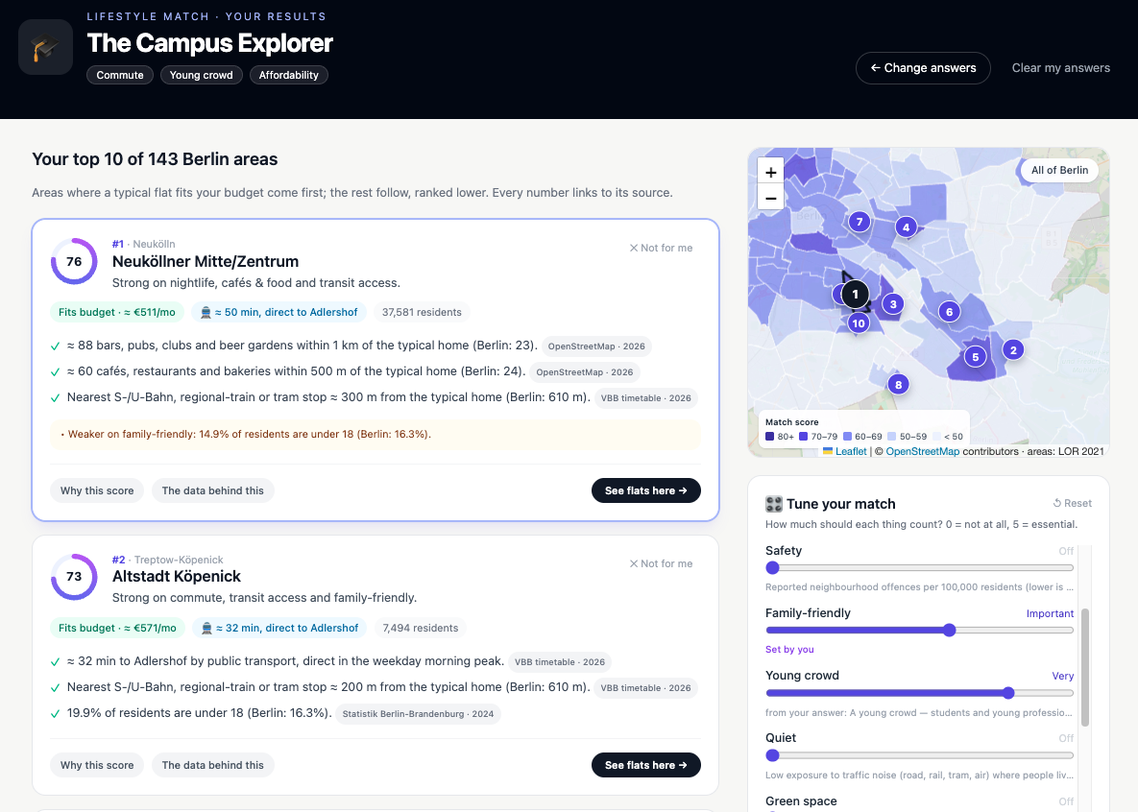
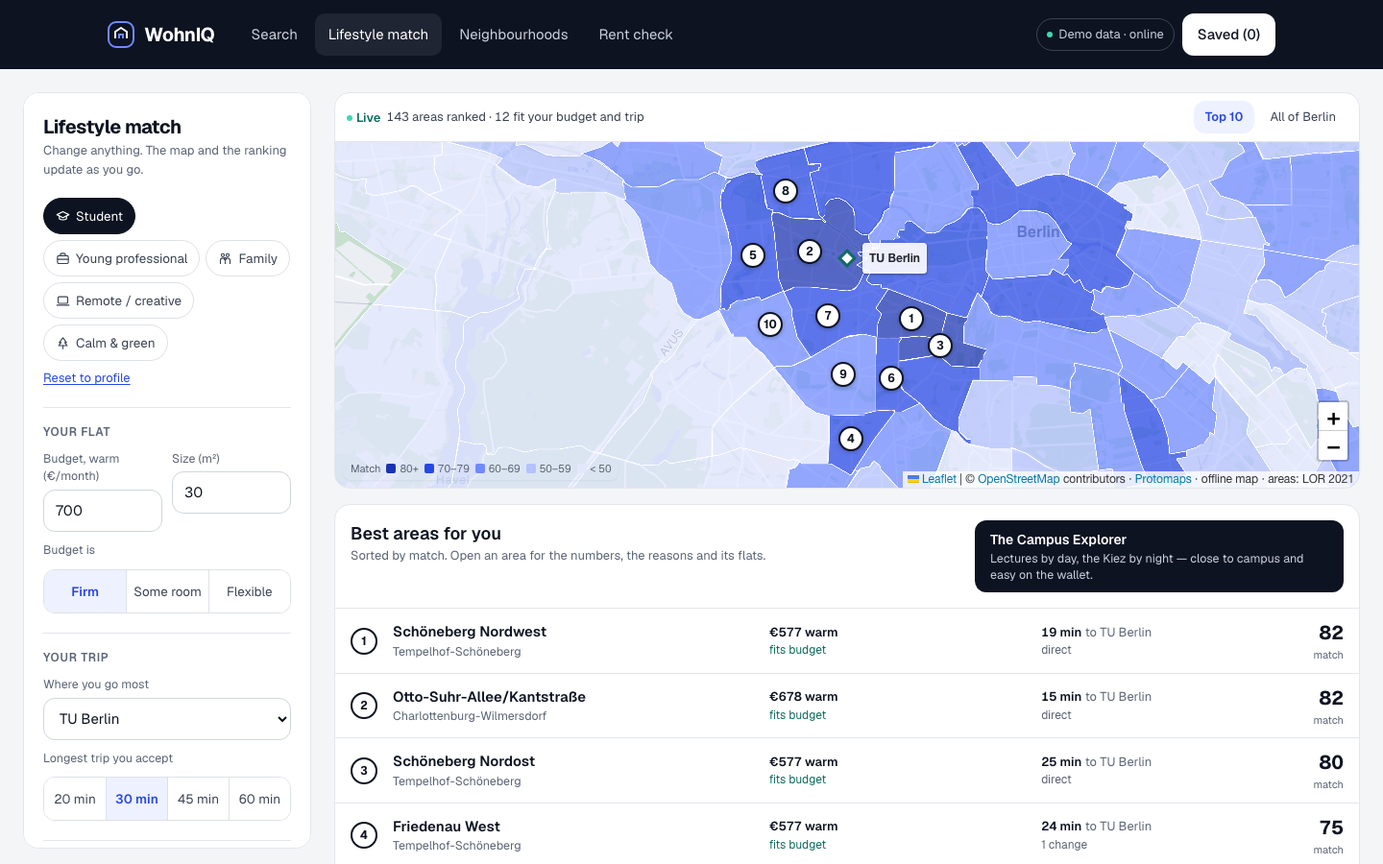
Check offline and accessibility, configure ESLint, update docs (T9.8)
- e2e/offline.spec.ts blocks every outside request and visits every page:
  all work, maps draw the local PMTiles, nothing tries to leave.
- e2e/a11y.spec.ts runs axe (WCAG 2.1 A/AA) on nine pages at desktop and
  phone size. Fixed: hero text contrast on /lifestyle/questions, photo
  counter contrast, Neighbourhoods row labels that hid their visible text
  (tests now read data-label), links in text without underline, small
  Remove targets on /compare.
- New dev dependency @axe-core/playwright 4.14.0 (pinned): automated
  accessibility checks in the existing Playwright suite; dev only, free.
- ESLint was installed but never configured (npm run lint only opened a
  setup prompt): added .eslintrc.json (next/core-web-vitals), fixed the
  two findings.
- README: Berlin Ink and the open data, ADR-0016 to 0020, stack, repo
  map, quickstart, offline and Docker notes, attribution, current scam
  eval and new screenshots. LIFESTYLE_MATCH.md describes the explorer.

diff --git a/frontend/e2e/offline.spec.ts b/frontend/e2e/offline.spec.ts
@@ -1,0 +1,66 @@
+// Offline check (T9.8, design rule "offline first"): every request leaving this machine is
+// blocked. Each page must still work, with the local base map, and say so where live data
+// (departures) is missing.
+
+import { expect, test, type Page } from "@playwright/test";
+
+const LOCAL = /^(https?:\/\/(localhost|127\.0\.0\.1)(:\d+)?\/|data:|blob:)/;
+
+async function goOffline(page: Page) {
+  const blocked: string[] = [];
+  const errors: string[] = [];
+  await page.context().route("**/*", (route) => {
+    const url = route.request().url();
+    if (LOCAL.test(url)) return route.continue();
+    blocked.push(new URL(url).host);
+    return route.abort("internetdisconnected");
+  });
+  page.on("pageerror", (e) => errors.push(e.message));
+  return { blocked, errors };
+}
+
+async function mapTilesDrawn(page: Page) {
+  // protomaps-leaflet draws the local PMTiles into canvases; no tile images from the web.
+  await expect(page.locator(".leaflet-tile-pane canvas").first()).toBeVisible({ timeout: 20_000 });
+}
+
+test("every page works with no internet, and nothing tries to leave this machine", async ({ page }) => {
+  const { blocked, errors } = await goOffline(page);
+  const map = await (await page.request.get("http://localhost:8000/api/v1/listings/map")).json();
+  const id = map[0].id;
+
+  await page.goto("/");
+  await expect(page.getByRole("heading", { level: 1 })).toBeVisible();
+  await mapTilesDrawn(page);
+
+  await page.goto("/?q=Quiet+2+rooms+in+Mitte+near+a+park");
+  await expect(page.getByTestId("results-heading")).toHaveText(/^\d+ flats? /);
+  await mapTilesDrawn(page);
+
+  await page.goto(`/listings/${id}`);
+  await expect(page.getByTestId("rent-panel")).toBeVisible();
+  await expect(page.getByTestId("similar-card").first()).toBeVisible();
+  await mapTilesDrawn(page);
+
+  await page.goto("/rent-check");
+  await expect(page.getByRole("heading", { level: 1 })).toBeVisible();
+
+  await page.goto("/lifestyle");
+  await page.getByTestId("profile-cards").getByRole("button", { name: /Student/ }).click();
+  await expect(page.getByTestId("area-row").first()).toBeVisible();
+  await mapTilesDrawn(page);
+
+  await page.goto("/neighborhoods");
+  await expect(page.locator(".leaflet-overlay-pane path").first()).toBeAttached();
+  await mapTilesDrawn(page);
+
+  await page.goto(`/compare?ids=${id},${map[1].id}`);
+  await expect(page.getByTestId("compare-column")).toHaveCount(2);
+
+  await page.goto("/saved");
+  await expect(page.getByRole("heading", { name: "Saved" })).toBeVisible();
+
+  expect(errors).toEqual([]);
+  // Nothing tried to leave this machine (photos come from local copies in demo mode).
+  expect([...new Set(blocked)]).toEqual([]);
+});

diff --git a/frontend/e2e/a11y.spec.ts b/frontend/e2e/a11y.spec.ts
@@ -1,0 +1,35 @@
+// Accessibility pass (T9.8): automated WCAG 2.1 A/AA checks with axe on every page, at
+// desktop and phone size. Manual checks (keyboard, landmarks, 44 px targets) are in the
+// Stop 8 checklist. Map tiles are canvas images and are excluded (they carry no text).
+
+import AxeBuilder from "@axe-core/playwright";
+import { expect, test, type Page } from "@playwright/test";
+
+async function scan(page: Page) {
+  const r = await new AxeBuilder({ page })
+    .withTags(["wcag2a", "wcag2aa", "wcag21a", "wcag21aa"])
+    .exclude(".leaflet-tile-pane")
+    .analyze();
+  return r.violations.map((v) => `${v.id} (${v.impact}): ${v.nodes.length}× ${v.nodes.slice(0, 3).map((n) => n.target.join(" ")).join(" | ")}`);
+}
+
+const PAGES: { name: string; open: (page: Page, id: string, id2: string) => Promise<void> }[] = [
+  { name: "home", open: async (p) => { await p.goto("/"); await p.locator(".leaflet-container").first().waitFor(); } },
+  { name: "results", open: async (p) => { await p.goto("/?q=Quiet+2+rooms+in+Mitte+near+a+park"); await expect(p.getByTestId("results-heading")).toHaveText(/^\d+ flats? /); } },
+  { name: "listing", open: async (p, id) => { await p.goto(`/listings/${id}`); await p.getByTestId("similar-card").first().waitFor(); } },
+  { name: "rent check", open: async (p) => { await p.goto("/rent-check"); await p.getByRole("heading", { level: 1 }).waitFor(); } },
+  { name: "lifestyle", open: async (p) => { await p.goto("/lifestyle"); await p.getByTestId("profile-cards").getByRole("button", { name: /Student/ }).click(); await p.getByTestId("area-row").first().waitFor(); } },
+  { name: "lifestyle questions", open: async (p) => { await p.goto("/lifestyle/questions"); await p.getByRole("button", { name: /Student/ }).waitFor(); } },
+  { name: "neighbourhoods", open: async (p) => { await p.goto("/neighborhoods"); await p.locator(".leaflet-overlay-pane path").first().waitFor(); } },
+  { name: "compare", open: async (p, id, id2) => { await p.goto(`/compare?ids=${id},${id2}`); await expect(p.getByTestId("compare-column")).toHaveCount(2); } },
+  { name: "saved", open: async (p) => { await p.goto("/saved?tab=searches"); await p.getByRole("heading", { name: "Saved" }).waitFor(); } },
+];
+
+for (const pg of PAGES) {
+  test(`no WCAG A/AA violations: ${pg.name}`, async ({ page }) => {
+    const map = await (await page.request.get("http://localhost:8000/api/v1/listings/map")).json();
+    await pg.open(page, map[0].id, map[1].id);
+    await page.waitForTimeout(500);
+    expect(await scan(page)).toEqual([]);
+  });
+}

diff --git a/frontend/e2e/neighborhoods.spec.ts b/frontend/e2e/neighborhoods.spec.ts
@@ -12,7 +12,7 @@ const MUGGELHEIM = "094016";
 const rows = (page: Page) => page.locator("li[data-key]");
 const row = (page: Page, key: string) => page.locator(`li[data-key="${key}"]`);
 const firstRowName = async (page: Page) =>
-  (await rows(page).first().locator("button").first().getAttribute("aria-label")) ?? "";
+  (await rows(page).first().getAttribute("data-label")) ?? "";
 
 async function clickArea(page: Page, key: string) {
   // Leaflet draws each area as an SVG path tagged with its key (NeighborhoodsMap). Click
@@ -109,11 +109,11 @@ test("list → map: selecting a row outlines the area on the map", async ({ page
 test("search and district filter keep Berlin-wide ranks", async ({ page }) => {
   await page.goto("/neighborhoods?category=safety");
   await expect(rows(page)).toHaveCount(143);
-  const rankBefore = await row(page, MUGGELHEIM).locator("button").first().getAttribute("aria-label");
+  const rankBefore = await row(page, MUGGELHEIM).getAttribute("data-label");
 
   await page.getByPlaceholder("Find an area…").fill("muggel");
   await expect(rows(page)).toHaveCount(1);
-  await expect(row(page, MUGGELHEIM).locator("button").first()).toHaveAttribute("aria-label", rankBefore!);
+  await expect(row(page, MUGGELHEIM)).toHaveAttribute("data-label", rankBefore!);
 
   await page.getByPlaceholder("Find an area…").fill("");
   await page.getByLabel("District").selectOption("Mitte");

diff --git a/frontend/app/neighborhoods/page.tsx b/frontend/app/neighborhoods/page.tsx
@@ -439,11 +439,11 @@ function NeighborhoodsPage() {
             <p className="mt-6 text-xs leading-relaxed text-text-muted">
               Areas are Berlin&apos;s 143 official LOR <em>Bezirksregionen</em>. Scores are percentiles against all of
               Berlin (100 = best); the badges mark the top and bottom 20%. Looking for a flat?{" "}
-              <Link href="/lifestyle" className="text-accent hover:underline">
+              <Link href="/lifestyle" className="text-accent underline underline-offset-2">
                 Try Lifestyle Match
               </Link>{" "}
               or{" "}
-              <Link href="/" className="text-accent hover:underline">
+              <Link href="/" className="text-accent underline underline-offset-2">
                 search listings
               </Link>
               .

diff --git a/frontend/components/neighborhoods/AreaRow.tsx b/frontend/components/neighborhoods/AreaRow.tsx
@@ -22,6 +22,7 @@ export function AreaRow({ area: a, total, bestLabel, worstLabel, selected, onSel
     <li
       id={`area-${a.key}`}
       data-key={a.key}
+      data-label={`#${a.rank} ${a.name}, ${a.district}`}
       onMouseEnter={() => onHover(a.key)}
       onMouseLeave={() => onHover(null)}
       className={`scroll-mt-40 rounded-2xl border bg-white transition-shadow ${
@@ -34,7 +35,6 @@ export function AreaRow({ area: a, total, bestLabel, worstLabel, selected, onSel
         type="button"
         onClick={() => onSelect(a.key)}
         aria-expanded={selected}
-        aria-label={`#${a.rank} ${a.name}, ${a.district}`}
         className="flex w-full items-start gap-3 rounded-2xl p-3.5 text-left focus:outline-none focus-visible:ring-2 focus-visible:ring-accent"
       >
         <span

diff --git a/frontend/app/compare/page.tsx b/frontend/app/compare/page.tsx
@@ -144,7 +144,7 @@ function CompareInner() {
                       <RentChip rent={d.rent} short />
                       <RiskChip risk={d.risk} short />
                     </div>
-                    <button type="button" onClick={() => go(ids.filter((x) => x !== id))} className="mt-2 text-[13px] text-accent underline" aria-label={`Remove ${l.title}`}>
+                    <button type="button" onClick={() => go(ids.filter((x) => x !== id))} className="mt-1 inline-flex min-h-tap items-center text-[13px] text-accent underline" aria-label={`Remove ${l.title}`}>
                       Remove
                     </button>
                   </th>

diff --git a/frontend/components/listing/PhotoGallery.tsx b/frontend/components/listing/PhotoGallery.tsx
@@ -124,7 +124,7 @@ export function PhotoGallery({
           <svg width="20" height="20" viewBox="0 0 24 24" fill="none" stroke="currentColor" strokeWidth="2" aria-hidden="true"><path d="M12 3v12M7 8l5-5 5 5M5 14v5a2 2 0 0 0 2 2h10a2 2 0 0 0 2-2v-5" /></svg>
         </button>
         {photos.length > 1 && (
-          <span className="absolute bottom-3 right-4 rounded-full bg-ink/80 px-2.5 py-0.5 text-[13px] text-white">
+          <span className="absolute bottom-3 right-4 rounded-full bg-ink px-2.5 py-0.5 text-[13px] text-white">
             {slide + 1} / {photos.length}
           </span>
         )}

diff --git a/frontend/components/lifestyle/DestinationPicker.tsx b/frontend/components/lifestyle/DestinationPicker.tsx
@@ -71,7 +71,7 @@ export function DestinationPicker({ answers, destinations, frequency, labels, on
           <div>
             <div className="flex items-end justify-between">
               <label htmlFor="commute" className="text-base font-semibold text-text">
-                Longest commute you'd accept
+                Longest commute you&apos;d accept
               </label>
               <span className="text-2xl font-bold tabular-nums text-text">
                 {answers.max_commute_min}

diff --git a/frontend/app/lifestyle/questions/page.tsx b/frontend/app/lifestyle/questions/page.tsx
@@ -162,7 +162,7 @@ export default function LifestylePage() {
               fits your life.
             </span>
           </h1>
-          <p className="mx-auto mt-4 max-w-xl text-base text-text-muted sm:text-lg">
+          <p className="mx-auto mt-4 max-w-xl text-base text-text-on-ink-muted sm:text-lg">
             Tell us how you live. We match you to {catalog?.region_count ?? 143} Berlin areas using official
             data — and show you exactly why.
           </p>

diff --git a/frontend/components/map/ListingsMap.tsx b/frontend/components/map/ListingsMap.tsx
@@ -362,7 +362,7 @@ export function ListingsMap({ listings, onUserViewChange }: Props) {
       </div>
       {offline && (
         <p className="mt-1.5 text-xs text-gray-500">
-          The offline map file isn't available on this server. Outlines show Berlin&apos;s areas.
+          The offline map file isn&apos;t available on this server. Outlines show Berlin&apos;s areas.
         </p>
       )}
     </div>

diff --git a/README.md b/README.md
@@ -20,15 +20,29 @@ Berlin's rental market is scarce, fast-moving, and scam-prone. Traditional porta
 5. Real-time enrichment fetches public-transport commute times (BVG/VBB API) and POI counts (OSM Overpass).
 6. A hybrid scam engine runs on every listing: price z-score, pHash duplicate detection, and an LLM text pass produce a fused 0–100 risk score with evidence.
 7. Results render as cards with a natural-language explanation grounded in the score breakdown, a risk badge, and a neighborhood map.
-8. Users can select 2–4 listings for a side-by-side comparison.
+8. Every listing is checked against the official **Berliner Mietspiegel 2026** (index range, rent-brake limit, verdict) and gets an **Around this flat** profile and **Right now** departures from Berlin's open data.
+9. Users can save searches, see similar flats and compare up to four flats side by side on a shareable `/compare` page.
+
+### Berlin Ink: the redesign with Berlin's open data
+
+The current look ("Berlin Ink", [`docs/design/berlin-ink/`](docs/design/berlin-ink/)) adds Berlin's official open data to every screen. The data is built once from checksummed source files into Supabase/PostGIS, and into local build files for offline use ([ADR-0016](docs/adr/0016-berlin-open-data-in-supabase.md)):
+
+- **Rent check** (`/rent-check` and on every listing): any of Berlin's 400,505 residential addresses against the Mietspiegel 2026 and the rent brake, following the brochure's method (its worked example is a test). The flat's rent is computed in the browser and never sent anywhere ([ADR-0017](docs/adr/0017-rent-check-and-scam-price-signal.md)).
+- **Around this flat**: nearest S/U-Bahn, schools, Kitas, parks and playgrounds, air quality, road accidents, recorded crime for the district region and the location class, each with its source and its position among Berlin's 542 planning areas. Wording describes, never judges.
+- **Right now**: the six nearest stops with BVG-style transport icons, offline; live departures when online.
+- **Scam checks** now compare rents with the rent index and read the landlord's wording offline in English and German ([ADR-0018](docs/adr/0018-offline-scam-wording-check.md)).
+- **Similar apartments** on every listing (ranked by code on named factors, each card saying why), a **compare list** of up to four flats with a `/compare?ids=…` page, and **saved searches** with "new since last time" and download/import, all without an account ([ADR-0020](docs/adr/0020-saved-searches-in-the-browser.md)).
+- **Offline first**: one local vector map of Berlin (PMTiles) draws every map without a tile server ([ADR-0019](docs/adr/0019-offline-basemap-and-berlin-ink-foundations.md)); in demo mode nothing leaves the machine (an end-to-end test blocks all outside requests).
+
+![Rent check](./assets/rent-check.png)
 
 ### See on the map — every listing, and what an area costs
 
-Under "Explore Berlin" on the homepage, every listing sits on the OpenStreetMap map as a purple price pill (warm rent). Click one for a card with photo, rent, location, rooms and size; the pill stays marked. Zoom out and listings cluster into the **median rent of each neighbourhood** (z12), then **each district** (z11), and once other cities are on screen (z ≤ 10) into a single **Berlin median**. A switcher jumps straight to any level. Tiers, thresholds and why: [ADR-0015](docs/adr/0015-homepage-listings-map.md).
+Under "Explore Berlin" on the homepage, every listing sits on the offline Berlin map as a blue price pill (warm rent). Click one for a card with photo, rent, location, rooms and size; the pill stays marked. Zoom out and listings cluster into the **median rent of each neighbourhood** (z12), then **each district** (z11), and once other cities are on screen (z ≤ 10) into a single **Berlin median**. A switcher jumps straight to any level. Tiers, thresholds and why: [ADR-0015](docs/adr/0015-homepage-listings-map.md).
 
 ### Lifestyle Match — find your Kiez, not just a flat
 
-Not everyone knows which neighbourhood to search in. **Lifestyle Match** (`/lifestyle`) asks a few playful questions (or starts from a preset like 🎓 Student or 🌳 Calm & green). It predicts your lifestyle persona, lets you confirm it, and ranks **all 143 Berlin areas** with a transparent, deterministic score built from official and open data: police crime statistics, the population register, the environmental atlas, IBB rents, the VBB timetable and OpenStreetMap. Every suggestion explains *why*, with the source of each number. You can re-weight factors, remove areas, update the ranking and open WohnIQ listings located in an area. **Your answers are never stored or logged.**
+Not everyone knows which neighbourhood to search in. **Lifestyle Match** (`/lifestyle`) is an explorer in two columns: your settings on the left (a profile such as Student or Calm & green, budget, where you go most, what matters from 0 to 5), and on the right a map of **all 143 Berlin areas** above "Best areas for you". Every change re-ranks live; you can open an area, compare up to three side by side, or remove it. Prefer questions? `/lifestyle/questions` asks them and predicts a persona. The ranking is a transparent, deterministic score built from official and open data: police crime statistics, the population register, the environmental atlas, IBB rents, the VBB timetable and OpenStreetMap. Every suggestion explains *why*, with the source of each number. You can open WohnIQ listings located in any area. **Your answers are never stored or logged.**
 
 ![Lifestyle Match results](./assets/lifestyle-results.png)
 
@@ -36,7 +50,7 @@ Not everyone knows which neighbourhood to search in. **Lifestyle Match** (`/life
 
 ### Berlin Neighborhoods — every area, ranked your way
 
-**Berlin Neighborhoods** (`/neighborhoods`, in the header menu) shows **all 143 Berlin areas** as a ranked list next to an OpenStreetMap map. Switch the category and both re-rank and recolour: crime, road safety, affluence, education, healthcare, amenities, parks & nature, public transport, quiet & clean air, parking, affordability, or a weighted overall score you can tune. Click an area on the map and the sidebar jumps to it with every figure, its Berlin comparison and its source.
+**Berlin Neighborhoods** (`/neighborhoods`, in the header menu) shows **all 143 Berlin areas** as a ranked list next to the map, on one calm blue scale. Switch the category and both re-rank and recolour: crime, road safety, affluence, education, healthcare, amenities, parks & nature, public transport, quiet & clean air, parking, affordability, or a weighted overall score you can tune. Click an area on the map and the sidebar jumps to it with every figure, its Berlin comparison and its source.
 
 The data comes from the police crime atlas, the Unfallatlas, the Senate's social-monitoring index, official land values (Bodenrichtwerte 2026), the schools report and OpenStreetMap. Scores are percentiles against a fixed Berlin-wide distribution, with no LLM involved. Labels describe the measure, never the residents.
 
@@ -108,19 +122,23 @@ Lifestyle answers are bounded choices (no free text, no addresses). The matching
 ### ADR-0013 — Berlin Neighborhoods: ranked area profiles from official data
 
 Same 143 areas and outlines as Lifestyle Match, with a separate, reproducible bundle: 40 metrics, each with `{source, year, method}`. Metric scores are percentiles against a fixed distribution, so they are robust to outliers and comparable across categories. Categories are weighted means and the overall weights are user-adjustable. Socio-economic data is used as a clearly named proxy with caveats. Land values are compared only within the same density class, as the Gutachterausschuss requires. Missing data (income per district) is shown as *pending* next to the Berlin-wide figure, never scored as zero. [→ ADR-0013](docs/adr/0013-berlin-neighborhoods.md)
+
+### ADR-0016 to ADR-0020 — Berlin open data, rent check, offline
+
+Berlin's open data lives in its own Supabase tables (PostGIS) and in local build files read by the same interface, with a parity test between the two ([0016](docs/adr/0016-berlin-open-data-in-supabase.md)). Raw files are never committed: only the build script and SHA-256 checksums. The rent check follows the Mietspiegel brochure, and the scam price signal compares with the rent index instead of the neighbourhood median, which flags no honest listing ([0017](docs/adr/0017-rent-check-and-scam-price-signal.md)). An offline wording check reads landlord text in English and German, with negation ([0018](docs/adr/0018-offline-scam-wording-check.md)). Maps draw one local PMTiles file ([0019](docs/adr/0019-offline-basemap-and-berlin-ink-foundations.md)). Saved searches stay in the browser ([0020](docs/adr/0020-saved-searches-in-the-browser.md)).
 ---
 
 ## Stack
 
 | Layer | Tech |
 |---|---|
-| **Frontend** | Next.js + TypeScript, Tailwind CSS, shadcn/ui, Leaflet + OSM tiles |
+| **Frontend** | Next.js + TypeScript, Tailwind CSS (Berlin Ink tokens), Geist, Leaflet + `protomaps-leaflet` drawing a local PMTiles map |
 | **Backend** | FastAPI, Pydantic, Uvicorn, Docker |
 | **AI** | Gemini Flash (`gemini-2.0-flash`) — parsing, scam text, explanations; Gemini `embedding-001` — semantic search |
-| **Database** | Supabase Postgres + pgvector |
+| **Database** | Supabase Postgres + pgvector + PostGIS (Berlin open data) |
 | **ORM / migrations** | SQLAlchemy 2.0, Alembic |
 | **Scam signals** | imagehash (pHash), Pillow |
-| **Enrichment** | BVG/VBB `transport.rest` (commute), OSM Overpass (POIs), Nominatim (geocoding) |
+| **Enrichment** | BVG/VBB `transport.rest` (commute, live departures), OSM Overpass (POIs), Nominatim (geocoding), Berlin open data (Mietspiegel 2026, Geoportal, Polizei, Unfallatlas, VBB GTFS) |
 | **Images** | Pexels API (hotlinked, attributed in-app) |
 | **Deploy** | Backend → Railway (Docker); Frontend → Vercel |
 | **Cost** | €0 incremental — Gemini free tier, Supabase free, Railway existing, Vercel free |
@@ -216,7 +234,13 @@ Plus parser self-checks against each publication, a byte-for-byte rebuild test, 
 | `backend/lifestyle/` | Lifestyle Match engine: questionnaire, weights, scoring, explanations, persona (pure) |
 | `backend/data/lifestyle/` | Region profile build from official data (`make lifestyle-data`) + shipped `regions.json` |
 | `backend/app/routers/lifestyle.py` | `/api/v1/lifestyle/*` — catalog, profile, match, listings, region outlines |
-| `frontend/app/lifestyle/` | Questionnaire (`/lifestyle`) and results (`/lifestyle/results`) |
+| `frontend/app/lifestyle/` | Explorer (`/lifestyle`) and questions (`/lifestyle/questions`); `/lifestyle/results` redirects |
+| `backend/data/berlin/` | Berlin open-data build (`make berlin-data`, checksummed sources, Mietspiegel parser) and Supabase load (`make berlin-load`) |
+| `backend/berlin/` | Runtime Berlin data: local (offline) and Postgres implementations, rent check, area profile, departures |
+| `backend/search/similar.py` | Similar apartments: deterministic, named factors, a reason per card |
+| `frontend/lib/rent/`, `frontend/components/rent/` | Browser-side rent check (mirrors the Python, tested with shared vectors) and the `/rent-check` page |
+| `frontend/lib/compare/`, `frontend/app/compare/` | Compare list (up to four flats) and the `/compare` page |
+| `frontend/lib/savedSearches.ts`, `frontend/app/saved/` | Saved searches and flats, download / import |
 | `frontend/tests/`, `frontend/e2e/` | Frontend logic tests (`npm test`) and Playwright journeys (`npm run test:e2e`) |
 | [`docs/NEIGHBORHOODS.md`](docs/NEIGHBORHOODS.md) | Berlin Neighborhoods — categories, sources, scoring, data status, evaluation, DoD checklist |
 | `backend/neighborhoods/` | Berlin Neighborhoods engine: catalogue, bundle model, percentile scoring, explanations (pure) |
@@ -240,6 +264,8 @@ uv run python -m data.seed_listings
 uv run python -m data.seed_images
 uv run python -m data.embed_listings
 uv run python -m scam.score   # pre-compute risk assessments
+make berlin-data              # from the repo root: Berlin open-data build (needs BERLIN_RAW_DIR, ~45 s)
+make berlin-load              # load it into Supabase (after alembic upgrade head)
 uv run uvicorn app.main:app --reload
 
 # Frontend
@@ -303,11 +329,23 @@ plus the deterministic seed-42 generator, so it matches the live database. In of
   estimates when the transit API fails, instead of showing nothing. `make eval-commute` (online)
   measures both estimates against live journeys.
 - Featured listings are drawn from the 38 that have cached neighborhood data, so every card
-  opens onto photos, amenities, and a risk rating. Search covers all 100 listings, as live does.
+  opens onto photos, amenities, and a risk rating. Search covers all 140 listings, as live does.
 - Without `make demo-photos`, photos load from Pexels if there's internet, otherwise a
-  placeholder is shown. Map tiles (OpenStreetMap) always need internet. Without them, the
-  listing map switches to a clean background with the 500 m amenity search area, a scale bar and
-  a short note; when the connection returns, the tiles reload.
+  placeholder is shown.
+- Berlin data (rent check, Around this flat, stops) comes from the local build of
+  `make berlin-data`; every map draws the local `berlin.pmtiles` from that build, served at
+  `/tiles/berlin.pmtiles`. Only live departures need the internet; without it, "Right now"
+  lists the nearest stops with walking minutes. `e2e/offline.spec.ts` blocks every outside
+  request and visits every page.
+
+### Docker and deployment notes
+
+The backend image (`backend/Dockerfile`) leaves out the Berlin build (`.dockerignore`):
+live mode reads the Berlin tables from Supabase. The map file is then not served by the API,
+so point `NEXT_PUBLIC_MAP_TILES_URL` at a copy (for example a public Supabase Storage object);
+without it, maps show area outlines on a plain background. For a self-contained offline
+container, remove `data/berlin/build/` from `.dockerignore` (adds about 110 MB) and run with
+`WOHNIQ_DEMO=1`.
 
 ---
 
@@ -316,3 +354,5 @@ plus the deterministic seed-42 generator, so it matches the live database. In of
 Apartment photos sourced via the Pexels API; attribution shown in-app per their terms.
 
 Lifestyle Match uses derived figures from: Polizei Berlin (Kriminalitätsatlas); Amt für Statistik Berlin-Brandenburg (Einwohnerregisterstatistik, CC BY 3.0 DE; LOR 2021 with SenStadt); Senatsverwaltung für Mobilität, Verkehr, Klimaschutz und Umwelt (Umweltgerechtigkeitsatlas 2023/24); Investitionsbank Berlin (Wohnungsmarktbericht 2025 and Tabellenband); Senatsverwaltung für Stadtentwicklung, Bauen und Wohnen (Betriebskostenübersicht 2026); Moses Mendelssohn Institut; VBB (GTFS open data); and © OpenStreetMap contributors (ODbL 1.0, via Geofabrik). Each figure's source is shown next to it in the app and listed in `backend/data/lifestyle/sources.py`.
+
+The rent check, Around this flat and Right now use: Senatsverwaltung für Stadtentwicklung, Bauen und Wohnen (Berliner Mietspiegel 2026, Wohnlagenkarte); Geoportal Berlin (addresses, LOR planning areas, schools, Kitas, parks, playgrounds); Polizei Berlin (Kriminalitätsatlas); Statistische Ämter (Unfallatlas); VBB (GTFS stops); air-quality stations; and © OpenStreetMap contributors via the Protomaps basemap. Sources and checksums: `backend/data/berlin/sources.py`. The data was gathered for Berlin Visualized; WohnIQ uses only the data, not its code.

diff --git a/docs/LIFESTYLE_MATCH.md b/docs/LIFESTYLE_MATCH.md
@@ -2,15 +2,13 @@
 
 > Tell us how you live — we match you to Berlin neighbourhoods, explain every suggestion with the data behind it, and never store your answers.
 
-Lifestyle Match is a questionnaire-driven way into WohnIQ. Instead of typing a query, people answer a few playful questions (or start from a preset). We predict their "lifestyle persona", let them confirm it, and rank all **143 Berlin areas** for them with a transparent, deterministic score. Every suggestion shows *why* it fits and *which publication* each number comes from. Users can re-weight, remove areas, update results and jump to WohnIQ listings located in an area.
+Lifestyle Match is a way into WohnIQ for people who don't yet know where to search. Since the Berlin Ink redesign (T9.6) it is an **explorer** at `/lifestyle`: settings on the left, and on the right a map of all **143 Berlin areas** above "Best areas for you", re-ranked live with a transparent, deterministic score. Every suggestion shows *why* it fits and *which publication* each number comes from. The questionnaire, which predicts a "lifestyle persona", now lives at `/lifestyle/questions` and ends in the explorer.
 
-| Entry points (homepage) | Questionnaire summary |
-|---|---|
-| ![Homepage entry bar and marketing card](../assets/lifestyle-homepage.png) | ![Persona and "did we get this right?"](../assets/lifestyle-questionnaire.png) |
+| Explorer: settings, map, best areas |
+|---|
+| ![Lifestyle explorer](../assets/lifestyle-results.png) |
 
-| Results: ranked areas, shaded map, "Tune your match" | Listings located in an area (offline demo: photo placeholders) |
-|---|---|
-| ![Results page](../assets/lifestyle-results.png) | ![Listings side panel](../assets/lifestyle-listings-panel.png) |
+Older screenshots of the first version (questionnaire summary, listings panel) are kept in `assets/` for the history.
 
 Decisions: [ADR-0010](adr/0010-lifestyle-match-data-model.md) (data model & provenance) · [ADR-0011](adr/0011-lifestyle-match-scoring.md) (answers → weights → ranking) · [ADR-0012](adr/0012-privacy-by-design.md) (privacy by design).
 
@@ -18,19 +16,14 @@ Decisions: [ADR-0010](adr/0010-lifestyle-match-data-model.md) (data model & prov
 
 ## 1. User flow
 
-1. **Homepage:** a "Try Lifestyle Match" bar under the search box, a marketing card above the feature cards, and a header link → `/lifestyle`.
-2. **Welcome:** five presets (🎓 Student, 💼 Young professional, 👨👩👧 Family, 🎨 Remote/creative, 🌳 Calm & green) or "Start from scratch". A preset pre-fills answers; every answer stays editable.
-3. **Four pages** (back/forward, progress bar, jump to visited steps):
-   - *Your move:* budget (with cited reference figures), flat size, rooms, household, how firm the budget is.
-   - *Your days:* a destination from a fixed list of 13 campuses/hubs, how often, maximum commute, work style, getting around.
-   - *Evenings & weekends.*
-   - *Your neighbourhood:* who's around, safety (opt-in, with a caveat), extras.
-4. **Summary:** the persona ("The Campus Explorer"), the derived weights with the answer behind each, "You told us" with a *Change* link per answer, and **"Yes, that's me — show my areas"**.
-5. **Results** (`/lifestyle/results`):
-   - ranked area cards: score, budget/commute badges, reasons with source chips, trade-offs, *Why this score*, *The data behind this*;
-   - a shaded map of all 143 areas with the top matches numbered;
-   - **Tune your match** sliders with an explicit **Update results** button;
-   - **✕ Not for me** with undo, and **See flats here** (side panel).
+1. **Homepage:** the "Lifestyle match" entry card under the hero, and "Lifestyle match" in the header → `/lifestyle`.
+2. **First visit:** five profile cards under the map (Student, Young professional, Family, Remote / creative, Calm & green; line icons, no emoji). A profile pre-fills answers; everything stays editable.
+3. **Explorer** (`/lifestyle`, two columns; on phones the map comes first and the settings sit behind "Adjust"):
+   - *Settings (left):* profile, budget and size, how firm the budget is, where you go most (13 campuses/hubs) and the longest trip you accept, "What matters" from 0 to 5 per factor, removed areas, "Answer questions instead", clear my answers.
+   - *Map (right, top):* all 143 areas on one blue scale by match, the top 10 numbered, the destination marked; Top 10 / All of Berlin; a click shows a small card with "Details below".
+   - *Best areas for you (under the map):* compact rows (rank, area, typical warm rent and whether it fits, trip time, match). An opened row shows score bars for what you weigh, reasons with source chips, trade-offs, *The data behind this*, **See flats here** (side panel), **Compare** (up to three areas side by side, best value marked) and **Not for me** (restorable).
+   - Every change re-ranks immediately (debounced), through the same deterministic engine.
+4. **Questions** (`/lifestyle/questions`): four pages (*Your move*, *Your days*, *Evenings & weekends*, *Your neighbourhood*), then the persona summary ("The Campus Explorer") with the derived weights and "Yes, that's me — show my areas", which opens the explorer. `/lifestyle/results` redirects to `/lifestyle`.
 
 ## 2. What we score (16 factors)
 
